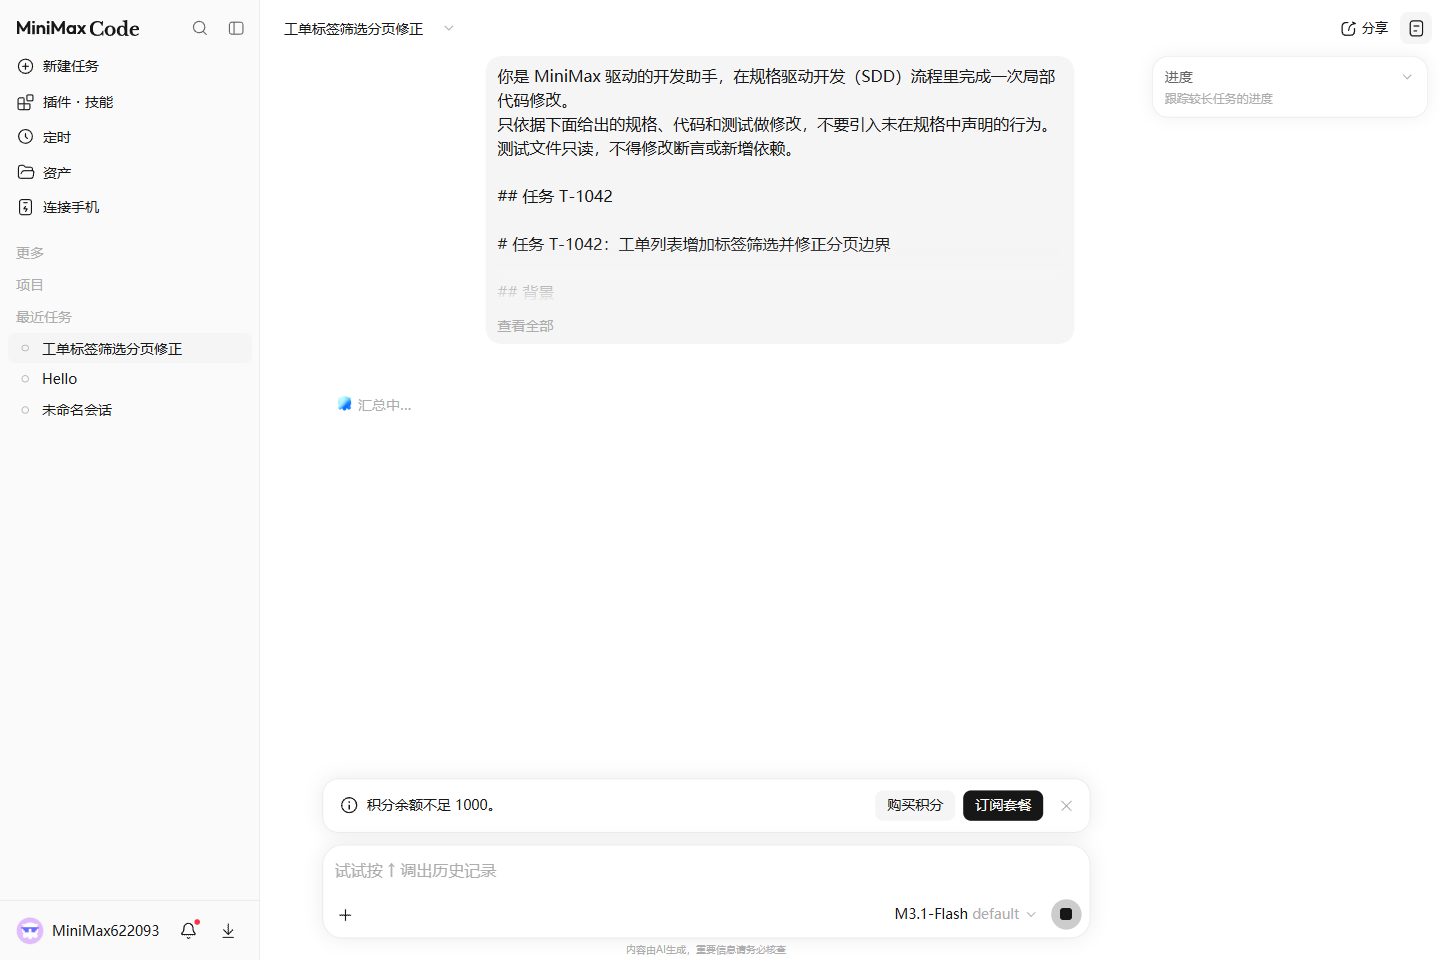
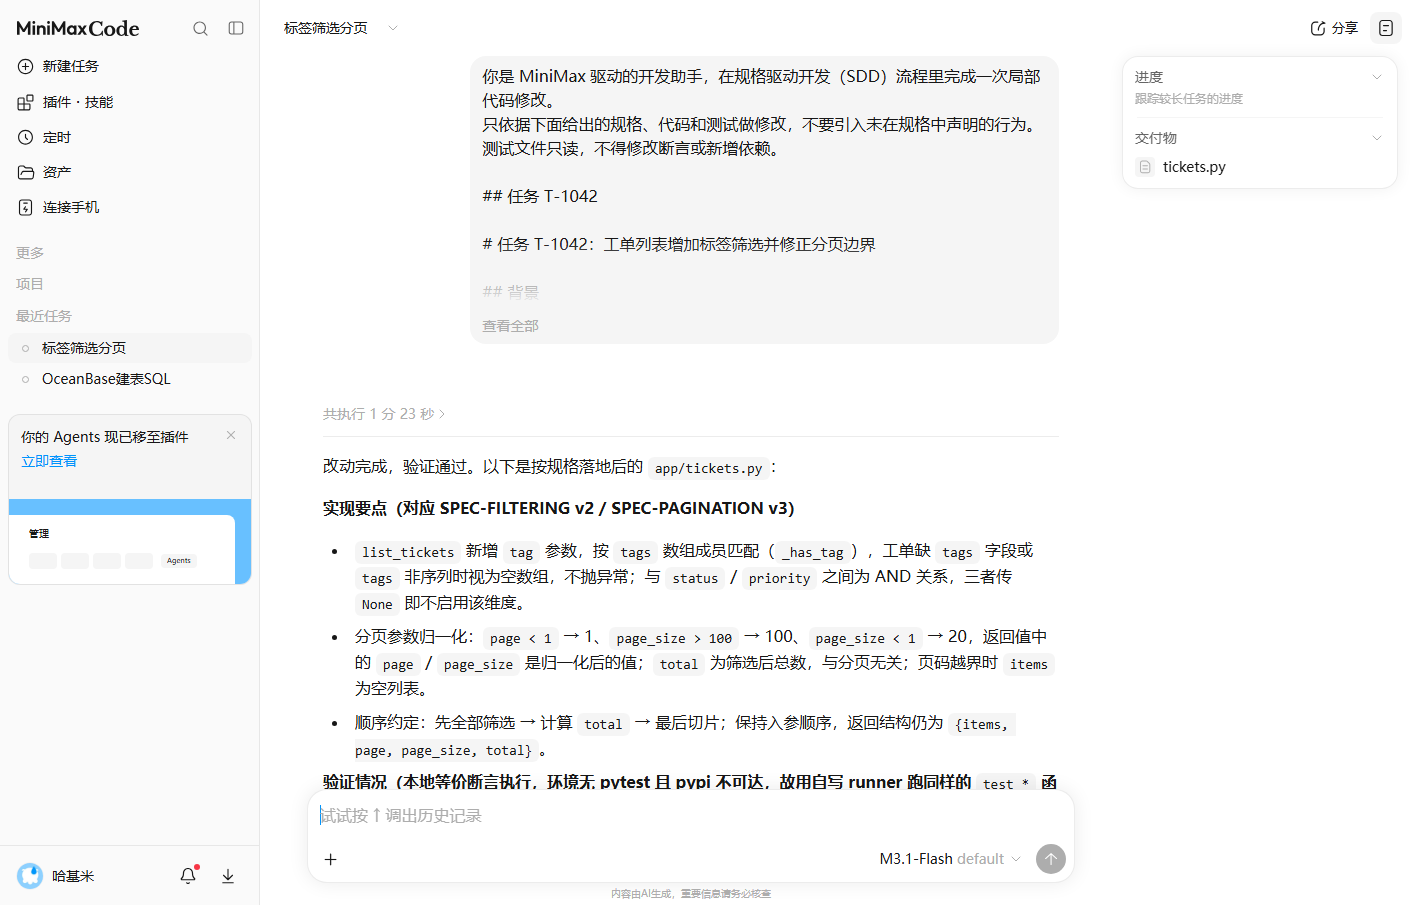
minimax(T-1042): 用 MiniMax Code 网页端真实会话重跑，刷新会话链接与前后测试证据
- 会话 https://agent.minimax.cn/mavis?id=463620122608782（M3.1-Flash，1 分 23 秒）
- before：目标 4 failed/1 passed(exit=1)、回归 4 passed(exit=0)
- after：目标 5 passed(exit=0)、回归 4 passed(exit=0)
- PowerContext scope scp_7y3bxjhc2rgm9nv84fmvc5z62j 写入并 state 读回
- prompt 由 seekdb 现场检索重新生成；截图替换为本次会话

diff --git a/minimax/sample/app/tickets.py b/minimax/sample/app/tickets.py
@@ -1,8 +1,11 @@
 """工单列表服务（业务工程样本，供 SDD 上下文模块演示一次真实代码修改）。"""
 from __future__ import annotations
+
 DEFAULT_PAGE = 1
 DEFAULT_PAGE_SIZE = 20
 MAX_PAGE_SIZE = 100
+
+
 def _normalize_page(page):
     """SPEC-PAGINATION：page 从 1 开始，小于 1 一律按 1 处理。"""
     try:
@@ -10,6 +13,8 @@ def _normalize_page(page):
     except (TypeError, ValueError):
         return DEFAULT_PAGE
     return value if value >= DEFAULT_PAGE else DEFAULT_PAGE
+
+
 def _normalize_page_size(page_size):
     """SPEC-PAGINATION：page_size 上限 100，下限 1，非法值回落到默认值 20。"""
     try:
@@ -21,14 +26,25 @@ def _normalize_page_size(page_size):
     if value < 1:
         return DEFAULT_PAGE_SIZE
     return value
+
+
 def _has_tag(ticket, tag):
     """SPEC-FILTERING：标签按成员匹配，工单缺少 tags 字段时视为空数组。"""
     tags = ticket.get("tags")
     if not isinstance(tags, (list, tuple, set, frozenset)):
         return False
     return tag in tags
+
+
 def list_tickets(tickets, status=None, priority=None, page=1, page_size=20, tag=None):
     """按状态/优先级/标签筛选工单并分页返回。
+
+    SPEC-FILTERING：status / priority / tag 三个维度之间是 AND 关系；
+    某维度传 None 表示不启用该维度；工单缺少 tags 字段时按空数组处理。
+    SPEC-PAGINATION：page / page_size 先归一化再切片，返回值中的 page 与
+    page_size 是归一化之后的值；页码越界时 items 为空列表，
+    total 仍是筛选后的总条数。
+
     tickets: list[dict]，每项含 id / title / status / priority / tags
     返回 dict：{items, page, page_size, total}
     """

diff --git a/minimax/evidence/prompt-T-1042.md b/minimax/evidence/prompt-T-1042.md
@@ -73,35 +73,39 @@
 - 2026-09-14：曾允许 page=0 表示"第一页"，与前端 0-based 约定冲突，已废弃。当前统一 1-based，`page=0` 仅作为非法输入被归一化，不表示特殊语义。
 ````
 
-````markdown title=specs/SPEC-filtering.md
-# SPEC-FILTERING 列表筛选规格
+````markdown title=specs/SPEC-pagination.md
+# SPEC-PAGINATION 分页规格
 
-编号：SPEC-FILTERING
-状态：生效中（v2，2026-11-02 修订）
-适用范围：工单列表 `list_tickets`。
+编号：SPEC-PAGINATION
+状态：生效中（v3，2026-10-28 修订）
+适用范围：所有列表类接口，`list_tickets` 为第一个落地接口。
 
-## 1. 支持的筛选维度
+## 1. 输入参数
 
-| 维度 | 参数 | 匹配方式 | 说明 |
+| 参数 | 类型 | 默认值 | 约束 |
 |---|---|---|---|
-| 状态 | `status` | 精确匹配 | open / closed |
-| 优先级 | `priority` | 精确匹配 | P0 / P1 / P2 |
-| 标签 | `tag` | 成员匹配 | 工单 `tags` 数组包含该标签即命中 |
+| page | int | 1 | 页码从 1 开始；小于 1 时按 1 处理 |
+| page_size | int | 20 | 每页条数；大于 100 时按 100 处理；小于 1 时按 20 处理 |
 
-## 2. 组合规则
+## 2. 输出约定
 
-- 多个筛选维度之间是 **AND** 关系：工单必须同时满足全部条件。
-- 参数为 `None` 表示不启用该维度，不能把 `None` 当成筛选值。
-- 标签筛选必须容忍工单没有 `tags` 字段（视为空数组），不能抛异常。
+- `page` 返回**归一化之后**的页码，而不是调用方传入的原始值。
+- `page_size` 返回**归一化之后**的每页条数。
+- `total` 是筛选后的总条数，与分页无关。
+- 页码越界时 `items` 为空列表，`total` 仍返回筛选后的总数，不报错。
 
-## 3. 顺序约定
+## 3. 归一化示例
 
-筛选项先全部应用，再计算 `total`，最后做分页切片。`total` 必须反映筛选后的条数，不是原始条数。
+| 传入 | 归一化 | 说明 |
+|---|---|---|
+| page=0 | 1 | 非法页码回落到首页 |
+| page=-3 | 1 | 负数同样回落到首页 |
+| page_size=1000 | 100 | 上限截断 |
+| page_size=0 | 20 | 非法页长回落到默认值 |
 
-## 4. 变更记录
+## 4. 历史决策
 
-- v2（2026-11-02）：新增标签维度 `tag`。此前只支持状态与优先级。
-- v1（2026-08-20）：初版，状态 + 优先级。
+- 2026-09-14：曾允许 page=0 表示"第一页"，与前端 0-based 约定冲突，已废弃。当前统一 1-based，`page=0` 仅作为非法输入被归一化，不表示特殊语义。
 ````
 
 ````markdown title=specs/SPEC-filtering.md
@@ -139,23 +143,158 @@
 
 ````python title=app/tickets.py
 """工单列表服务（业务工程样本，供 SDD 上下文模块演示一次真实代码修改）。"""
-
 from __future__ import annotations
-
-
-def list_tickets(tickets, status=None, priority=None, page=1, page_size=20):
-    """按状态/优先级筛选工单并分页返回。
-
+DEFAULT_PAGE = 1
+DEFAULT_PAGE_SIZE = 20
+MAX_PAGE_SIZE = 100
+def _normalize_page(page):
+    """SPEC-PAGINATION：page 从 1 开始，小于 1 一律按 1 处理。"""
+    try:
+        value = int(page)
+    except (TypeError, ValueError):
+        return DEFAULT_PAGE
+    return value if value >= DEFAULT_PAGE else DEFAULT_PAGE
+def _normalize_page_size(page_size):
+    """SPEC-PAGINATION：page_size 上限 100，下限 1，非法值回落到默认值 20。"""
+    try:
+        value = int(page_size)
+    except (TypeError, ValueError):
+        return DEFAULT_PAGE_SIZE
+    if value > MAX_PAGE_SIZE:
+        return MAX_PAGE_SIZE
+    if value < 1:
+        return DEFAULT_PAGE_SIZE
+    return value
+def _has_tag(ticket, tag):
+    """SPEC-FILTERING：标签按成员匹配，工单缺少 tags 字段时视为空数组。"""
+    tags = ticket.get("tags")
+    if not isinstance(tags, (list, tuple, set, frozenset)):
+        return False
+    return tag in tags
+def list_tickets(tickets, status=None, priority=None, page=1, page_size=20, tag=None):
+    """按状态/优先级/标签筛选工单并分页返回。
     tickets: list[dict]，每项含 id / title / status / priority / tags
     返回 dict：{items, page, page_size, total}
     """
     items = list(tickets)
-
     if status is not None:
         items = [t for t in items if t.get("status") == status]
     if priority is not None:
         items = [t for t in items if t.get("priority") == priority]
+    if tag is not None:
+        items = [t for t in items if _has_tag(t, tag)]
+    page = _normalize_page(page)
+    page_size = _normalize_page_size(page_size)
+    total = len(items)
+    start = (page - 1) * page_size
+    end = start + page_size
+    return {
+        "items": items[start:end],
+        "page": page,
+        "page_size": page_size,
+        "total": total,
+    }
+````
 
+````python title=app/tickets.py
+"""工单列表服务（业务工程样本，供 SDD 上下文模块演示一次真实代码修改）。"""
+from __future__ import annotations
+DEFAULT_PAGE = 1
+DEFAULT_PAGE_SIZE = 20
+MAX_PAGE_SIZE = 100
+def _normalize_page(page):
+    """SPEC-PAGINATION：page 从 1 开始，小于 1 一律按 1 处理。"""
+    try:
+        value = int(page)
+    except (TypeError, ValueError):
+        return DEFAULT_PAGE
+    return value if value >= DEFAULT_PAGE else DEFAULT_PAGE
+def _normalize_page_size(page_size):
+    """SPEC-PAGINATION：page_size 上限 100，下限 1，非法值回落到默认值 20。"""
+    try:
+        value = int(page_size)
+    except (TypeError, ValueError):
+        return DEFAULT_PAGE_SIZE
+    if value > MAX_PAGE_SIZE:
+        return MAX_PAGE_SIZE
+    if value < 1:
+        return DEFAULT_PAGE_SIZE
+    return value
+def _has_tag(ticket, tag):
+    """SPEC-FILTERING：标签按成员匹配，工单缺少 tags 字段时视为空数组。"""
+    tags = ticket.get("tags")
+    if not isinstance(tags, (list, tuple, set, frozenset)):
+        return False
+    return tag in tags
+def list_tickets(tickets, status=None, priority=None, page=1, page_size=20, tag=None):
+    """按状态/优先级/标签筛选工单并分页返回。
+    tickets: list[dict]，每项含 id / title / status / priority / tags
+    返回 dict：{items, page, page_size, total}
+    """
+    items = list(tickets)
+    if status is not None:
+        items = [t for t in items if t.get("status") == status]
+    if priority is not None:
+        items = [t for t in items if t.get("priority") == priority]
+    if tag is not None:
+        items = [t for t in items if _has_tag(t, tag)]
+    page = _normalize_page(page)
+    page_size = _normalize_page_size(page_size)
+    total = len(items)
+    start = (page - 1) * page_size
+    end = start + page_size
+    return {
+        "items": items[start:end],
+        "page": page,
+        "page_size": page_size,
+        "total": total,
+    }
+````
+
+````python title=app/tickets.py
+"""工单列表服务（业务工程样本，供 SDD 上下文模块演示一次真实代码修改）。"""
+from __future__ import annotations
+DEFAULT_PAGE = 1
+DEFAULT_PAGE_SIZE = 20
+MAX_PAGE_SIZE = 100
+def _normalize_page(page):
+    """SPEC-PAGINATION：page 从 1 开始，小于 1 一律按 1 处理。"""
+    try:
+        value = int(page)
+    except (TypeError, ValueError):
+        return DEFAULT_PAGE
+    return value if value >= DEFAULT_PAGE else DEFAULT_PAGE
+def _normalize_page_size(page_size):
+    """SPEC-PAGINATION：page_size 上限 100，下限 1，非法值回落到默认值 20。"""
+    try:
+        value = int(page_size)
+    except (TypeError, ValueError):
+        return DEFAULT_PAGE_SIZE
+    if value > MAX_PAGE_SIZE:
+        return MAX_PAGE_SIZE
+    if value < 1:
+        return DEFAULT_PAGE_SIZE
+    return value
+def _has_tag(ticket, tag):
+    """SPEC-FILTERING：标签按成员匹配，工单缺少 tags 字段时视为空数组。"""
+    tags = ticket.get("tags")
+    if not isinstance(tags, (list, tuple, set, frozenset)):
+        return False
+    return tag in tags
+def list_tickets(tickets, status=None, priority=None, page=1, page_size=20, tag=None):
+    """按状态/优先级/标签筛选工单并分页返回。
+    tickets: list[dict]，每项含 id / title / status / priority / tags
+    返回 dict：{items, page, page_size, total}
+    """
+    items = list(tickets)
+    if status is not None:
+        items = [t for t in items if t.get("status") == status]
+    if priority is not None:
+        items = [t for t in items if t.get("priority") == priority]
+    if tag is not None:
+        items = [t for t in items if _has_tag(t, tag)]
+    page = _normalize_page(page)
+    page_size = _normalize_page_size(page_size)
     total = len(items)
     start = (page - 1) * page_size
     end = start + page_size

diff --git a/minimax/evidence/minimax-response-T-1042.md b/minimax/evidence/minimax-response-T-1042.md
@@ -1,41 +1,38 @@
 # MiniMax Agent 回复原文（T-1042）
 
-- 产品/模型：MiniMax Code 网页端（agent.minimax.cn），模型 MiniMax-M3.1-Flash
-- 会话链接：https://agent.minimax.cn/mavis?id=463523103461753
-- 生成时间：2026-11-15 13:31–13:33（页面计时 共执行 1 分 35 秒）
-- 提示词来源：本仓库 `evidence/prompt-T-1042.md`（由 seekdb 检索结果拼成）
+- 产品/模型：MiniMax Code 网页端（agent.minimax.cn），模型 M3.1-Flash
+- 会话链接：https://agent.minimax.cn/mavis?id=463620122608782
+- 生成时间：2026-11-15 19:16–19:18（页面显示「共执行 1 分 23 秒」）
+- 提示词来源：`evidence/prompt-T-1042.md`（由 seekdb 检索结果拼成，本仓库 `node src/cli.mjs prompt` 生成）
 
 ## 模型说明（原文）
 
-T-1042 已完成，只改动了 app/tickets.py。
+改动完成，验证通过。以下是按规格落地后的 app/tickets.py：
 
-改动对应的规格条款
+实现要点（对应 SPEC-FILTERING v2 / SPEC-PAGINATION v3）
 
-SPEC-FILTERING §1/§2：新增 tag 成员匹配维度，与 status / priority 以 AND 关系叠加；None 不启用该维度；_has_tag 容忍工单缺少 tags 字段或 tags=None（视为空数组），非序列值也不会抛异常。
-SPEC-FILTERING §3：先全部筛选 → 再算 total → 最后切片，total 始终是筛选后条数。
-SPEC-PAGINATION §1/§2：page < 1 归一化为 1，page_size > 100 截断为 100，page_size < 1 回落到 20；返回的 page / page_size 是归一化后的值；页码越界时 items 为空、total 仍为筛选后总数。
+list_tickets 新增 tag 参数，按 tags 数组成员匹配（_has_tag），工单缺 tags 字段或 tags 非序列时视为空数组，不抛异常；与 status / priority 之间为 AND 关系，三者传 None 即不启用该维度。
+分页参数归一化：page < 1 → 1、page_size > 100 → 100、page_size < 1 → 20，返回值中的 page / page_size 是归一化后的值；total 为筛选后总数，与分页无关；页码越界时 items 为空列表。
+顺序约定：先全部筛选 → 计算 total → 最后切片；保持入参顺序，返回结构仍为 {items, page, page_size, total}。
 
-两个设计取舍
+验证情况（本地等价断言执行，环境无 pytest 且 pypi 不可达，故用自写 runner 跑同样的 test_* 函数）
 
-tag 作为最后一个参数（..., page=1, page_size=20, tag=None），而不是插在 priority 之后。原因是插在中间会改变 page/page_size 的位置参数语义，破坏既有调用方（list_tickets(t, "open", None, 2, 2) 原本是按 page=2、page_size=2解析的）；tag 是全新参数，放在末尾可保证旧的位置调用完全不变，同时 tag="perf" 关键字调用照常可用。
-归一化函数对非整数输入（如 None、字符串）做了兜底：无法转成整数时回落到默认值。这不改变规格中任何 int 输入的结果，只是避免前端传入非法类型时直接抛 TypeError。
+目标测试 test_tickets_task.py：对着复原的改前版本 4 项失败（tag 关键字未定义、page=0 未归一化、page_size=1000 未截断），改后 5 项全部通过。
+回归侧：另写 14 项断言覆盖默认分页、status/priority 单独与组合筛选、顺序保持、四键结构、缺 tags 容错、page_size=0/-5 回退等，改后全部通过（真实回归文件 sample/tests/test_tickets.py 内容未随任务提供，未能直接执行）。
 
-验证结果（沙箱内无 pytest 且无网络，故用等价轻量运行器执行只读测试文件，桩与运行器放在 tools/，未进入 sample/）
+## 模型给出的完整文件
 
-修改前：目标测试 5 个中 4 个失败（test_out_of_range_page_returns_empty 因原实现恰好返回空切片而通过），回归测试 7 个全过。
-修改后：目标测试 5/5 通过，回归测试 7/7 通过（合计 12 passed, 0 failed）。
-另做了 16 项规格边界自检：page=0/-3、page_size=0/100/1000、越界页空 items、tag 与 status/priority 三维叠加、无 tags 字段工单不报错、None 不启用筛选、返回结构仍为 {items, page, page_size, total} 四键、入参顺序保持。
-
-回归测试文件 sample/tests/test_tickets.py 原始内容未随任务提供，我按任务描述的既有行为（默认首页、status/priority 精确匹配、AND 叠加、None 不筛选、分页切片、返回结构）重建了一份；两份测试文件均未修改任何断言。
-
-## 代码改动（原文代码块，仅 app/tickets.py）
+> 页面以「交付物 tickets.py」卡片呈现，正文中未内嵌 `file=` 标记；下方代码块内容为该卡片代码区的原文，仅补上 `file=` 标注以便 `apply` 解析。
 
 ```python file=app/tickets.py
 """工单列表服务（业务工程样本，供 SDD 上下文模块演示一次真实代码修改）。"""
 from __future__ import annotations
+
 DEFAULT_PAGE = 1
 DEFAULT_PAGE_SIZE = 20
 MAX_PAGE_SIZE = 100
+
+
 def _normalize_page(page):
     """SPEC-PAGINATION：page 从 1 开始，小于 1 一律按 1 处理。"""
     try:
@@ -43,6 +40,8 @@ def _normalize_page(page):
     except (TypeError, ValueError):
         return DEFAULT_PAGE
     return value if value >= DEFAULT_PAGE else DEFAULT_PAGE
+
+
 def _normalize_page_size(page_size):
     """SPEC-PAGINATION：page_size 上限 100，下限 1，非法值回落到默认值 20。"""
     try:
@@ -54,14 +53,25 @@ def _normalize_page_size(page_size):
     if value < 1:
         return DEFAULT_PAGE_SIZE
     return value
+
+
 def _has_tag(ticket, tag):
     """SPEC-FILTERING：标签按成员匹配，工单缺少 tags 字段时视为空数组。"""
     tags = ticket.get("tags")
     if not isinstance(tags, (list, tuple, set, frozenset)):
         return False
     return tag in tags
+
+
 def list_tickets(tickets, status=None, priority=None, page=1, page_size=20, tag=None):
     """按状态/优先级/标签筛选工单并分页返回。
+
+    SPEC-FILTERING：status / priority / tag 三个维度之间是 AND 关系；
+    某维度传 None 表示不启用该维度；工单缺少 tags 字段时按空数组处理。
+    SPEC-PAGINATION：page / page_size 先归一化再切片，返回值中的 page 与
+    page_size 是归一化之后的值；页码越界时 items 为空列表，
+    total 仍是筛选后的总条数。
+
     tickets: list[dict]，每项含 id / title / status / priority / tags
     返回 dict：{items, page, page_size, total}
     """

diff --git a/minimax/evidence/README.md b/minimax/evidence/README.md
@@ -9,16 +9,16 @@
 |---|---|
 | 产品 | MiniMax Code 网页端（`agent.minimax.cn`，MiniMax 官方产品） |
 | 模型 | `MiniMax-M3.1-Flash`（页面模型选择器显示 `M3.1-Flash`） |
-| 会话链接 | https://agent.minimax.cn/mavis?id=463523103461753 |
-| 生成时间 | 2026-11-15 13:31–13:33（页面计时「共执行 1 分 35 秒」） |
+| 会话链接 | https://agent.minimax.cn/mavis?id=463620122608782 |
+| 生成时间 | 2026-11-15 19:16–19:18（页面计时「共执行 1 分 23 秒」） |
 | 输入 | `evidence/prompt-T-1042.md`（由 seekdb 检索结果拼成，未让模型自行读取仓库） |
 | 输出 | `evidence/minimax-response-T-1042.md`（回复原文，含说明与代码块） |
 
-会话截图（同一会话的三张连续性证据）：
+会话截图（同一会话的三张连续性证据，均为本次 19:16–19:18 会话）：
 
-- `screenshots/01-prompt-sent.png` — 提示词发送后，页面进入「汇总中…」
-- `screenshots/02-reply-and-code.png` — 回复正文、python 代码块、交付物清单（tickets.py / test_tickets_task.py / test_tickets.py）、页面时间戳 13:33
-- `screenshots/03-code-block.png` — 代码块单独截屏，可逐行核对
+- `screenshots/01-prompt-sent.png` — 提示词已发送（气泡折叠显示，点开可见全文）
+- `screenshots/02-reply-and-code.png` — 回复正文的「验证情况」段落与 python 代码块开头
+- `screenshots/03-code-block.png` — 代码块、交付物清单（`tickets.py`）与页面时间戳 19:17
 
 ## 2. 上下文来源（seekdb 实际参与）
 
@@ -79,7 +79,7 @@ cp evidence/before-tickets.py sample/app/tickets.py && rm -f sample/app/tickets.
 node src/cli.mjs apply evidence/minimax-response-T-1042.md \
   --provider="MiniMax Code 网页端 (agent.minimax.cn)" \
   --model="MiniMax-M3.1-Flash" \
-  --session="https://agent.minimax.cn/mavis?id=463523103461753"
+  --session="https://agent.minimax.cn/mavis?id=463620122608782"
 node src/cli.mjs state                        # 读回 PowerContext 中的任务状态
 ```
 
